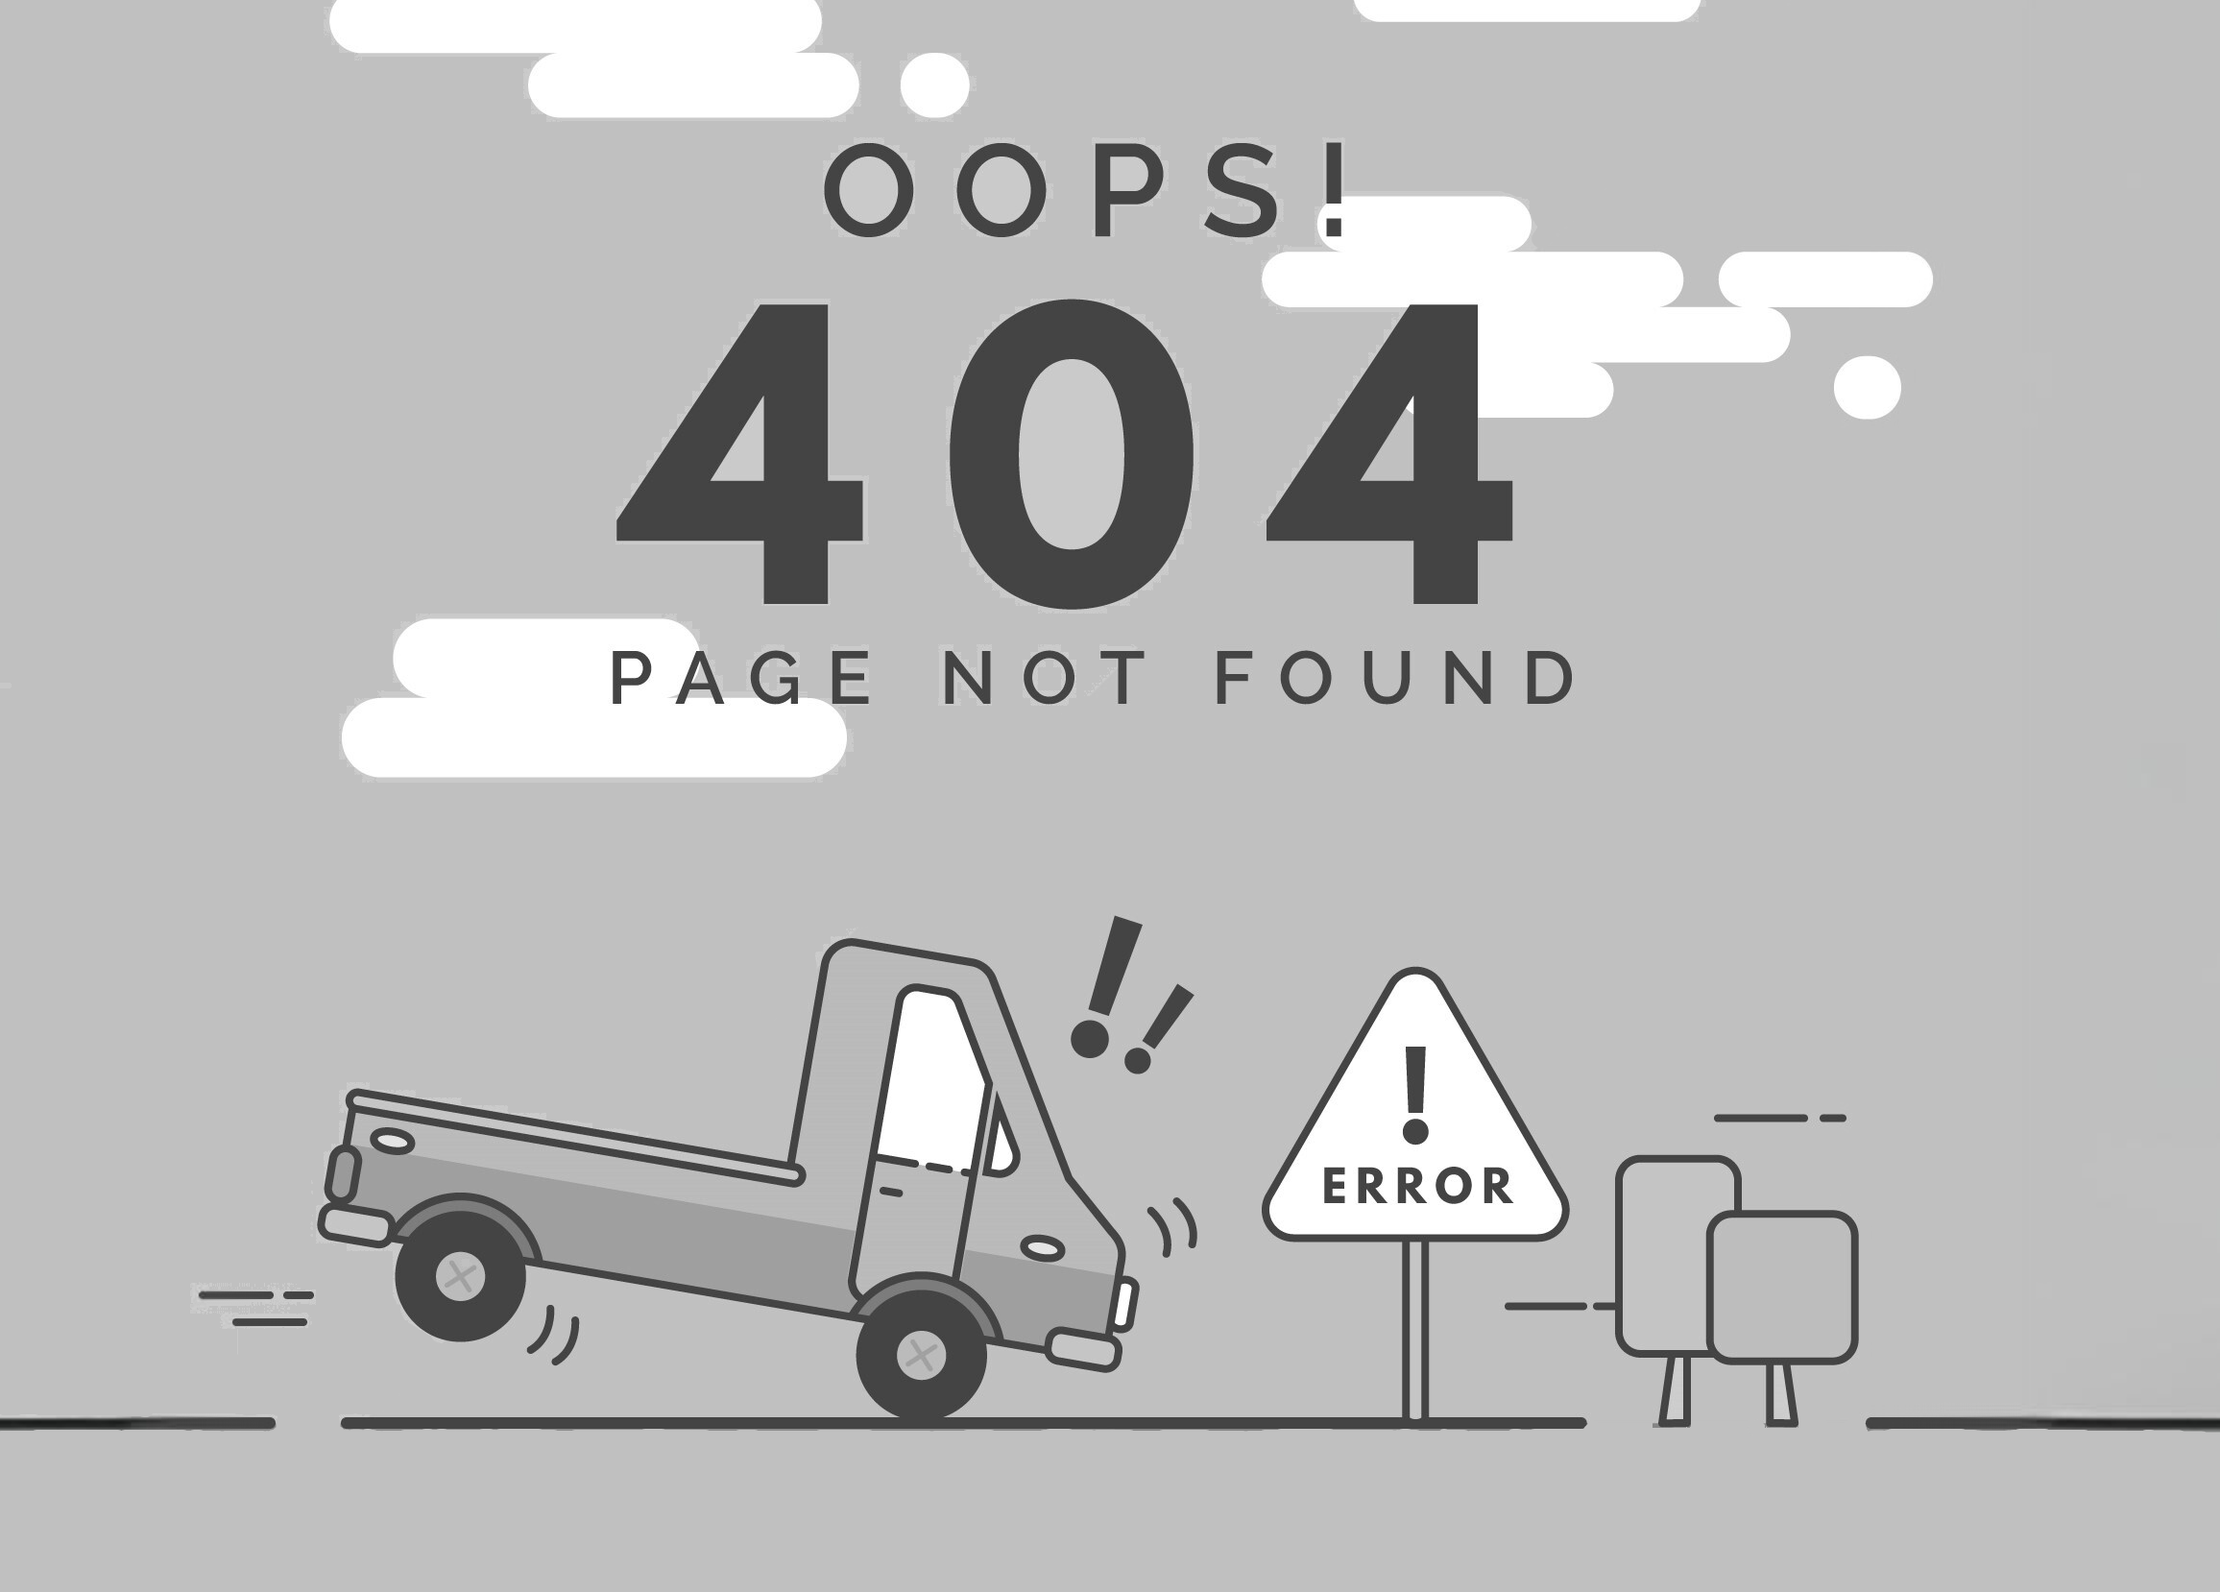
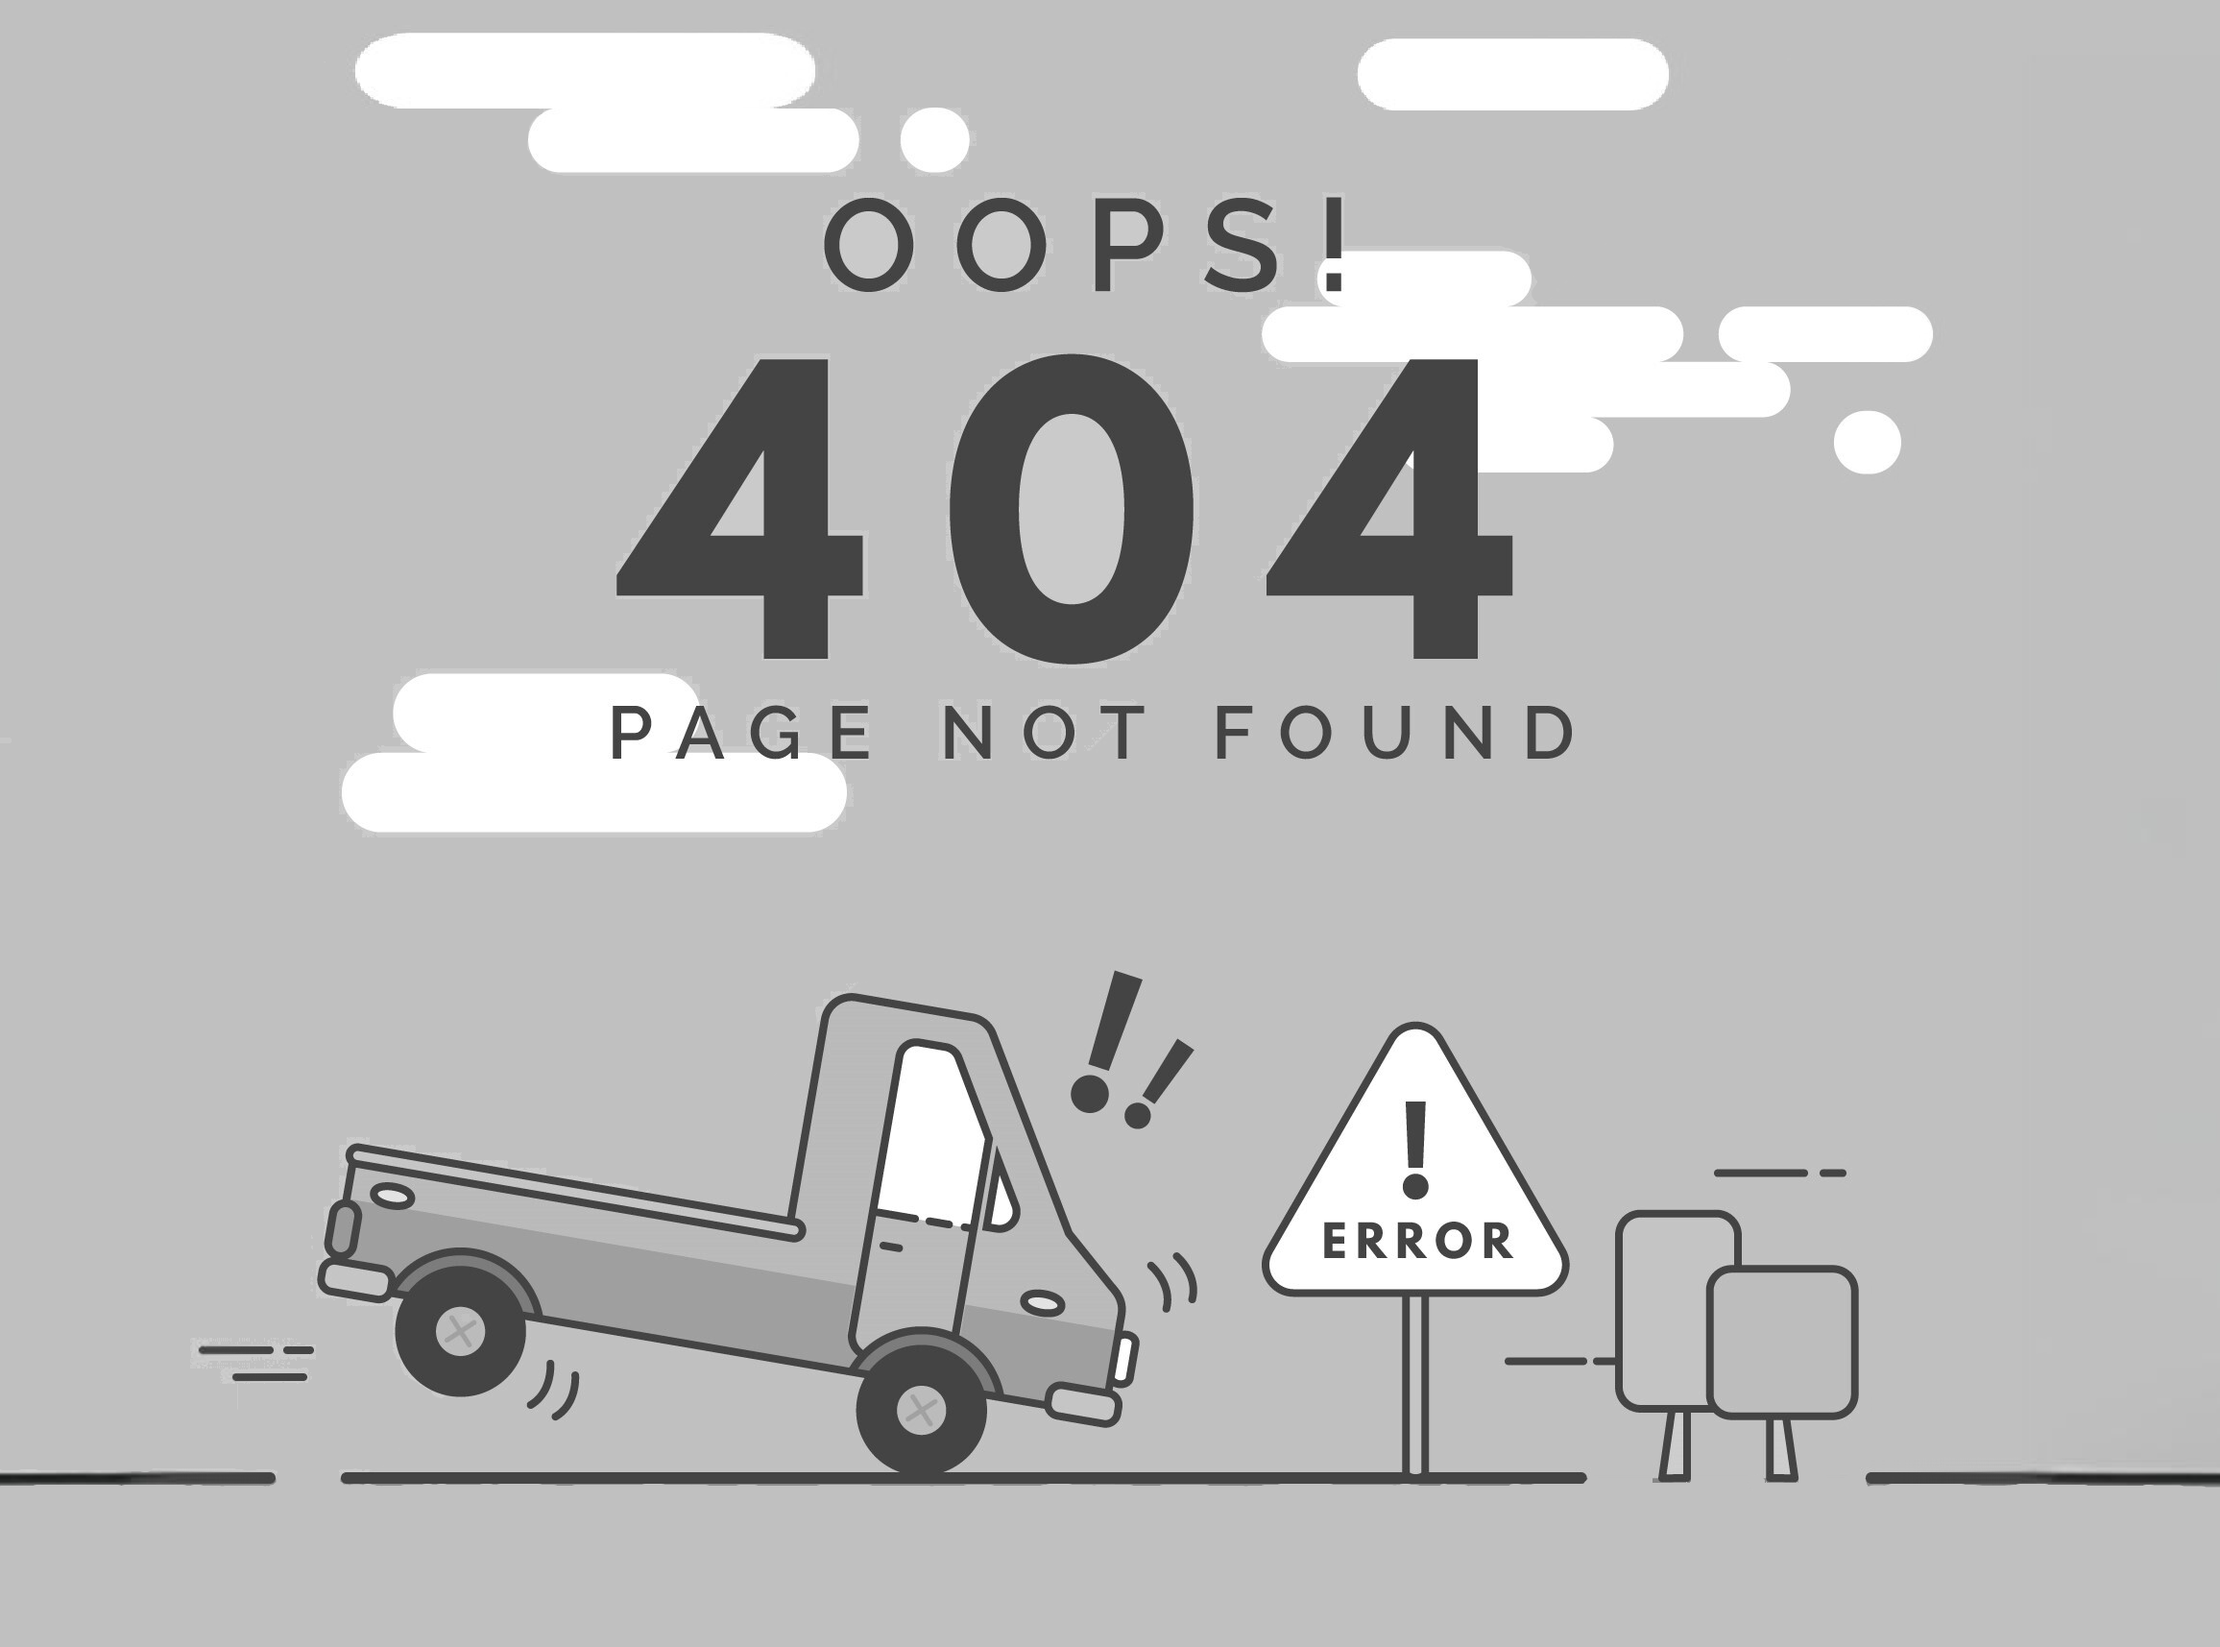
color

diff --git a/Progetto/js/homepagejs.js b/Progetto/js/homepagejs.js
@@ -25,7 +25,7 @@ function navbar() {
     Inserisci servizio
     </a>
     <ul class="dropdown-menu drop1">
-    <li><a class="dropdown-item" href="#">Occupazione solo pubblico</a></li>
+    <li><a class="dropdown-item" href="./occSuoloPub.html">Occupazione solo pubblico</a></li>
     <li><a class="dropdown-item" href="#">Richiesta trasporto</a></li>
     <li><a class="dropdown-item" href="#">Scala elevatore</a></li>
     <li><a class="dropdown-item" href="./imballi.html">Consegna imballi</a></li>

diff --git a/Progetto/css/pagina404.css b/Progetto/css/pagina404.css
@@ -17,6 +17,8 @@ body {
 }
 
 .containerFoto {
+    margin-top: 40px;
+    margin-bottom: 40px;
     height: 415px;
     width: 578px;
     background-color: #c0c0c0;
@@ -25,6 +27,7 @@ body {
 .containerFoto img {
     height: 100%;
     width: 100%;
+    
 }
 
 .attribution {

diff --git a/Progetto/css/css01.css b/Progetto/css/css01.css
@@ -287,7 +287,9 @@ ul {
   display: none !important;
 }
 
-
+.dropdown-item:focus, .dropdown-item:hover {
+  background-color: #6c757dc8 !important;
+}
 
 
 
